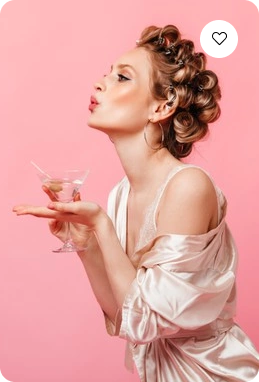
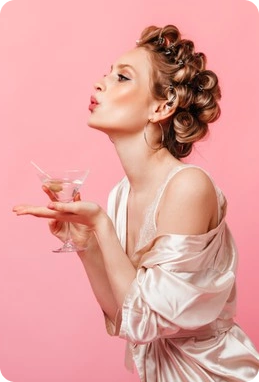
Add like Button

Changed region(s): [[0.7722, 0.0288, 0.9266, 0.1728]]

diff --git a/index.html b/index.html
@@ -90,18 +90,35 @@
             <!-- /.main-lock-header -->
             <div class="post">
                 <div class="post-in grid">
+                    
                     <img src="img/W1.png" alt="new in">   
                     <img src="img/W2.png" alt="new in">   
                 </div>
                 <div class="post-in">
-                    <img src="img/W7.png" alt="new in">   
-                    <img src="img/W8.png" alt="new in">   
+                    <div class="test first">
+                        <button class="heart-button">
+                            <img src="img/Group 5.png" alt="new in">   
+                        </button>
+                    </div>
+                    <div class="test second">
+                        <button class="heart-button">
+                            <img src="img/Group 5.png" alt="new in">   
+                        </button>   
+                    </div>
                 </div>
             </div>
             <div class="post">
                 <div class="post-in">
-                    <img src="img/W4.png" alt="new in">   
-                    <img src="img/W3.png" alt="new in">   
+                    <div class="test third">
+                        <button class="heart-button">
+                            <img src="img/Group 5.png" alt="new in">   
+                        </button>
+                    </div>
+                    <div class="test fourth">
+                        <button class="heart-button">
+                            <img src="img/Group 5.png" alt="new in">   
+                        </button>   
+                    </div> 
                 </div>
                 <div class="post-in grid">
                     <img src="img/W5.png" alt="new in">   

diff --git a/style/style.css b/style/style.css
@@ -88,7 +88,6 @@ body{
     flex-direction: column;
     justify-content: center;
     margin-top: 12px;
-    margin-bottom: 24px;
 }
 .nav-img{
     margin-left: 10px;
@@ -141,6 +140,7 @@ body{
 /*main-block-heder*/
 
 .post{
+   
     background: #FFFFFF;
     border-radius: 4px;
     margin-top: 65px;
@@ -160,6 +160,7 @@ body{
     justify-content: space-around;
 }
 .post-in.grid{
+    
     border-radius: 4px;
     width: 539px;
     height: 380px;
@@ -167,3 +168,39 @@ body{
     align-content: space-between;
 }
 /*posts*/
+
+.test
+{
+    width: 259px;
+    height: 380px;
+    display: flex;
+    align-items: flex-start;
+    justify-content: end;
+}
+
+.test.first
+{
+    background: url(../img/W7.jpg) no-repeat;
+}
+
+.test.second
+{
+    background: url(../img/W8.png) no-repeat;
+}
+.test.third
+{
+    background: url(../img/W3.png) no-repeat;
+}
+.test.fourth
+{
+    background: url(../img/W4.png) no-repeat;
+}
+
+.heart-button
+{
+    cursor: pointer;
+    background-color: rgba(255, 255,255, 0);
+    border: none;
+    margin: 10px;
+}
+
